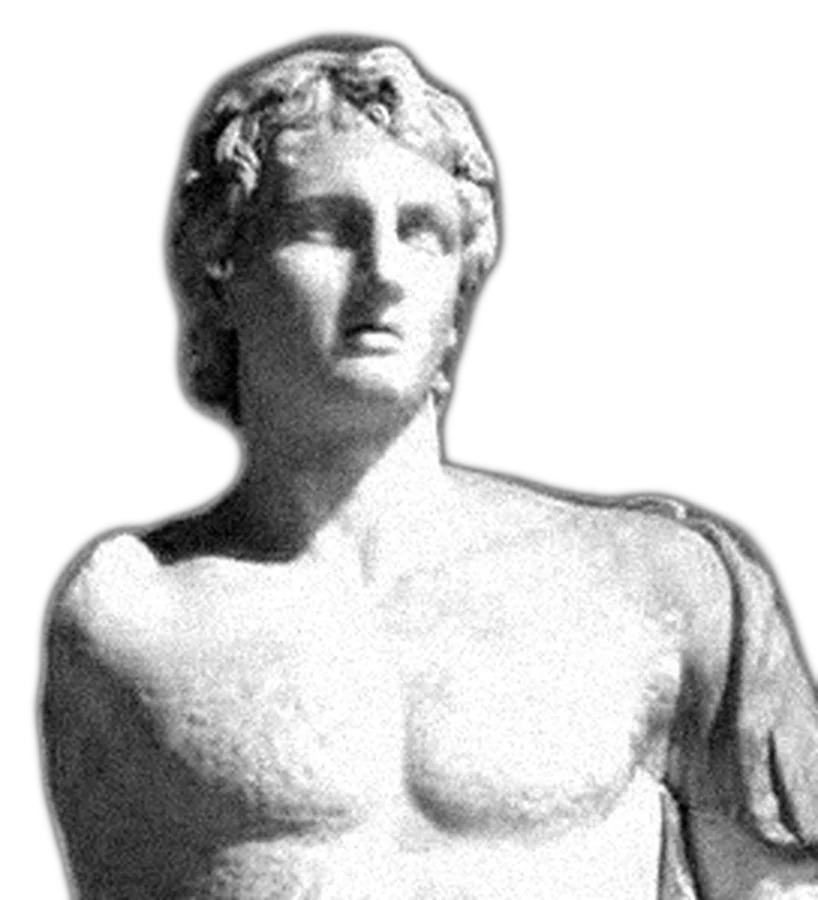
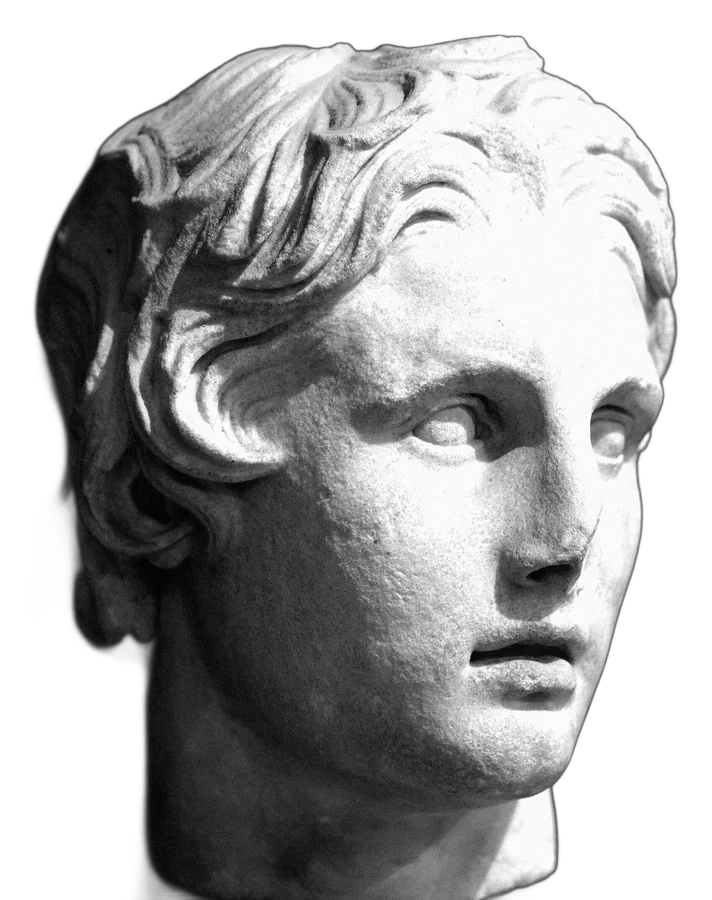
Hall of Minds: sharper Alexander (new public-domain source) and cleaner Dow (4x upscale); Phase 1 report draft
Claude-Session: https://claude.ai/code/session_01TvvDVzmjTmUGC952DbShZp

diff --git a/scripts/minds/portraits.py b/scripts/minds/portraits.py
@@ -5,7 +5,7 @@ import numpy as np
 from PIL import Image, ImageFilter, ImageOps
 from rembg import new_session, remove
 
-RAW, OUT = sys.argv[1], sys.argv[2]
+RAW, OUT = sys.argv[1], sys.argv[2]  # argv[3]: Real-ESRGAN weights (for UPSCALE), argv[4]: only these ids
 BOX = {  # (left, top, right, bottom) as fractions of the source image
     "aristotle": ("Aristotle_Altemps_Inv8575_jpg.jpg", (0.0, 0.0, 1.0, 0.78)),
     "caesar": ("Gaius_Iulius_Caesar_Vatican_Museum_jpg.jpg", (0.0, 0.0, 1.0, 0.62)),
@@ -13,7 +13,7 @@ BOX = {  # (left, top, right, bottom) as fractions of the source image
     "franklin": ("Joseph_Siffrein_Duplessis_Benjamin_Franklin_Google.jpg", (0.0, 0.02, 1.0, 0.9)),
     "tesla": ("Tesla_circa_1890_jpeg.jpg", (0.0, 0.0, 1.0, 0.85)),
     "edison": ("Thomas_Edison2_jpg.jpg", (0.2, 0.0, 0.93, 0.62)),
-    "alexander": ("Alexander1256.jpg", (0.02, 0.0, 0.66, 0.36)),
+    "alexander": ("Alexander_the_Great_IAM_inv1138T_n2.jpg", (0.0, 0.0, 1.0, 0.84)),  # 2026-10-28: sharper source (owner)
     "livermore": ("livermore.jpg", (0.04, 0.02, 0.96, 0.86)),
     "dow": ("dow.jpg", (0.0, 0.0, 1.0, 1.0)),
     "newton": ("newton.jpg", (0.14, 0.0, 0.86, 0.62)),
@@ -21,25 +21,43 @@ BOX = {  # (left, top, right, bottom) as fractions of the source image
 }
 sess = new_session("u2net_human_seg")
 sess_general = new_session("isnet-general-use")
-GENERAL = {"livermore"}  # the people-model left newspaper background on him
+GENERAL = {"livermore", "alexander"}  # the people-model left newspaper background on him; a marble head isn't a "person"
+UPSCALE = {"dow"}  # owner 2026-10-28: the only free photo is 234x300; enlarge 4x first (Real-ESRGAN x4plus via spandrel, weights path in argv[3])
+EXP = {"alexander": 1.35, "dow": 1.45}  # darker mid-tones: bright marble / a blown-out face shouldn't clip
+SOFT = {"dow"}  # the source is already high-contrast: no extra contrast
 HAIR: dict[str, int] = {}  # owner 2026-10-24: the hair filter cut a chunk out of Newton's hair; the plain cut-out is cleaner
-TIGHT = {"newton", "edison"}  # owner 2026-10-23: a little black came off their sides
+TIGHT = {"newton", "edison", "dow"}  # owner 2026-10-23: a little black came off their sides (dow: a light fringe on his hair)
 rng = np.random.default_rng(7)
 
 
-def look(gray):
+def look(gray, exp=1.08, soft=False):
     """Punchy black and white: stretch, an S-curve, then fine grain."""
-    g = np.asarray(ImageOps.autocontrast(gray, cutoff=1.5), dtype=np.float32) / 255.0
-    g = 0.5 + (g - 0.5) * 1.18
-    g = np.clip(g, 0, 1) ** 1.08
+    g = np.asarray(ImageOps.autocontrast(gray, cutoff=0 if soft else 1.5), dtype=np.float32) / 255.0
+    g = 0.5 + (g - 0.5) * (0.9 if soft else 1.18)
+    g = np.clip(g, 0, 1) ** exp
     g = g + rng.normal(0, 0.035, g.shape)
     return Image.fromarray((np.clip(g, 0, 1) * 255).astype(np.uint8), "L")
 
 
+def upscale(im):
+    import torch
+    from spandrel import ModelLoader
+    m = ModelLoader().load_from_file(sys.argv[3]).eval()
+    x = torch.from_numpy(np.asarray(im, dtype=np.float32) / 255.0).permute(2, 0, 1)[None]
+    with torch.no_grad():
+        y = m(x)[0].clamp(0, 1).permute(1, 2, 0).numpy()
+    return Image.fromarray((y * 255).round().astype(np.uint8))
+
+
+ONLY = set(sys.argv[4].split(",")) if len(sys.argv) > 4 else None  # e.g. "alexander,dow"
 for fid, (f, (l, t, r, b)) in BOX.items():
+    if ONLY and fid not in ONLY:
+        continue
     im = Image.open(f"{RAW}/{f}").convert("RGB")
     w, h = im.size
     im = im.crop((int(l * w), int(t * h), int(r * w), int(b * h)))
+    if fid in UPSCALE:
+        im = upscale(im)
     cut = remove(im, session=sess_general if fid in GENERAL else sess)
     alpha = cut.split()[3]
     if fid in TIGHT:  # dark smudges left on the edge: drop the half-transparent fringe, pull the edge in
@@ -54,7 +72,7 @@ for fid, (f, (l, t, r, b)) in BOX.items():
         a[band & ~light] = 0
         alpha = Image.fromarray(a)
     alpha = alpha.filter(ImageFilter.GaussianBlur(1.2))
-    gray = look(cut.convert("L"))
+    gray = look(cut.convert("L"), EXP.get(fid, 1.08), fid in SOFT)
     x0, y0, x1, y1 = alpha.point(lambda v: 255 if v > 40 else 0).getbbox()
     pad = int((y1 - y0) * 0.04)
     box = (max(0, x0 - pad), max(0, y0 - pad), min(im.width, x1 + pad), im.height)  # keep the bottom edge (cut by the card)

diff --git a/docs/PHASE1_AUDIT.md b/docs/PHASE1_AUDIT.md
@@ -1,0 +1,94 @@
+# Phase 1: checks and reports (2026-10-28)
+
+No app behaviour changed in this phase. The one exception is the owner's request on 2026-10-28 to
+clean up three Hall of Minds portraits (Dow, Alexander, Livermore), covered in §5.
+
+## 1. Mobile glitch sweep
+**How:** a temporary Playwright test (deleted afterwards) signed in a fresh user on the emulators.
+It opened 26 screens plus the 4 top-bar sheets (menu, notifications, profile, tokens) at
+**390 px** (iPhone 13/14), **375 px** (iPhone SE/mini) and **320 px** (the smallest phones).
+On each screen it checked for:
+- sideways page scrolling;
+- elements running off the screen;
+- text cut off without "…";
+- tap targets smaller than 32 px;
+- script errors.
+
+Every screen was screenshotted.
+
+**Screens:**
+- Dashboard, Market, a stock page (AAPL), Trade War, Battles, Alerts, News, Strategies;
+- Leaderboard, Coaching, Communities, Squads & friends, Missions & XP;
+- Trading 101, a lesson, the Chapter 1 quiz;
+- Hall of Minds, Napoleon's page, a swipe lesson;
+- Training Ground, Invite, Profile, Settings, the Buy/Sell ticket, Options, Charts.
+
+SWEEP_RESULTS
+
+## 2. Trading 101 inventory
+| Chapter | Lessons | Quiz |
+|---|---|---|
+| 1 · The basics | What is a stock? · Why prices move · Your $10,000 practice money · Reading a chart · Buying and selling · Stop-loss · Take-profit · Battles with friends (8 lessons, 2–3 min each) | 5 questions, pass 4 |
+| 2 · Charts & volume | Timeframes · Trends · Support & resistance · Moving averages · Volume · Candle shapes · RSI · Your chart checklist (8 lessons) | 5 questions, pass 4 |
+
+**Nothing half-built is visible in the app** (no "coming soon" placeholders). What's missing:
+- **Chapter 3 and later don't exist yet.** No topics are written down anywhere; the plan only says "Chapter 3+". Topics will be proposed for the owner to approve in Phase 18.
+- **Chapter 1 lesson 2 "Why prices move"** mentions market hours in one step only ("9:30 am to 4:00 pm New York time"). List D asks for:
+  - pre-market and after-hours;
+  - other world markets;
+  - time zones and daylight saving time;
+  - why hours matter.
+  - That's Phase 3. Only one other place mentions the hours (the lesson's own clock picture), so nothing would be repeated.
+- **Lessons that will need updating when the Trade War realm ships** (Stage B):
+  - "Your $10,000 practice money": its tip says you can reset below $2,500;
+  - "Battles with friends".
+  - The War realm will have its own $100,000 War balance, so these two lessons should say what's different.
+
+## 3. Hall of Minds pictures
+A numbered contact sheet of all 47 pictures (11 portraits + 36 lesson/story pictures) is in
+`docs/audit-2026-10-28/hall-of-minds-contact-sheet.jpg`.
+
+**Owner's choice (2026-10-28):** #1 Alexander, #4 Dow, #7 Livermore weren't as clear as Napoleon, Tesla or Franklin. See §5 for what was done.
+
+## 4. Security: can hidden game information leak? (`firestore.rules`, `functions/main.py`)
+| What | Who can read it today | Verdict |
+|---|---|---|
+| `tradeWars/{id}` (the match: name, players, names, buy-in, modes, draft picks, bounties, shields, results) | **any signed-in user**: open a single match by its id, **and also list every match** | ⚠ **Finding S-1** (below) |
+| `tradeWars/{id}/accounts/{uid}` (leaderboard numbers) | players in that match | OK |
+| `tradeWars/{id}/books/{uid}` (positions and fills) | that player; all players only when a squad turns on "view everyone's trades" | OK |
+| `tradeWars/{id}/events` (the ticker) | players in that match. Big trades show the stock only when trades are open to all | OK |
+| `twInvites/{id}` | only the two people involved | OK |
+| Push notifications (`notify_users`) | the recipient | OK: no hidden info is sent today |
+
+**Finding S-1 (privacy, medium-low):**
+- The rule `allow read: if request.auth != null` on `tradeWars/{warId}` also allows **listing**. Any signed-in user could query the whole collection and see every match's name, its players' user ids and display names, buy-ins and results.
+- The comment says it should only be readable "by a visitor holding the (unguessable) invite id".
+- **Fix (small, separate PR, needs the owner's OK):**
+  - `allow get: if request.auth != null;`
+  - `allow list: if request.auth != null && request.auth.uid in resource.data.players;`
+- Everything the app and the classic site do today keeps working: they list only with `where('players', 'array-contains', uid)`. A rules test would prove both.
+- **Recommended before War mode** (Phase 13), because War data will sit next to it.
+
+**What War mode must do** (already in `docs/WAR_DESIGN.md`):
+- Placements go in a new `tradeWars/{id}/deploy/{uid}` that only the owner can read and only the server writes.
+- Enemy-presence warnings go in a per-player document.
+- Nothing hidden goes on the match document, the accounts, the ticker or notifications.
+
+**Existing Trade War / Squad code vs list A** (what can be reused):
+| List A item | Today | Reuse |
+|---|---|---|
+| Lifecycle states | `lobby / draft / active / ended / cancelled`; the host starts it; min 2 players; **no lobby deadline** (lobbies wait until started or cancelled; max 5 open per host) | Keep the stored names; add `stage` + a deadline (War design §8) |
+| Start exactly once | `tw_start` runs in a transaction and refuses unless status is `lobby` | Yes |
+| Leaving / organizer | Players can leave in the lobby; the host can only cancel | Yes |
+| Hidden deployment / territories | **None** | New (Phases 13–14) |
+| Short side / challenges | **Long only** (`shortSelling: False`); "challenges" today are invites to a match | New Bull/Bear battles (Phase 15) |
+| Fantasy Draft | Snake draft, 2/3/5 picks, 45 s, auto-pick | Add timer choice + ban phase (Phase 10) |
+| Last Man Standing | `lms` floors and timed cuts, revive (20 tokens), shields | Add explicit thresholds + realized-only (Phase 10) |
+| Squads | Squad wars with allowed-stock lists and "view trades" | Free-for-all, Team (Phase 10) |
+| Rematch | **None** | New (Phase 9) |
+
+## 5. Hall of Minds portraits cleaned up (owner request, 2026-10-28)
+PORTRAIT_RESULTS
+
+## 6. Recommendations (for the owner to pick)
+RECS
